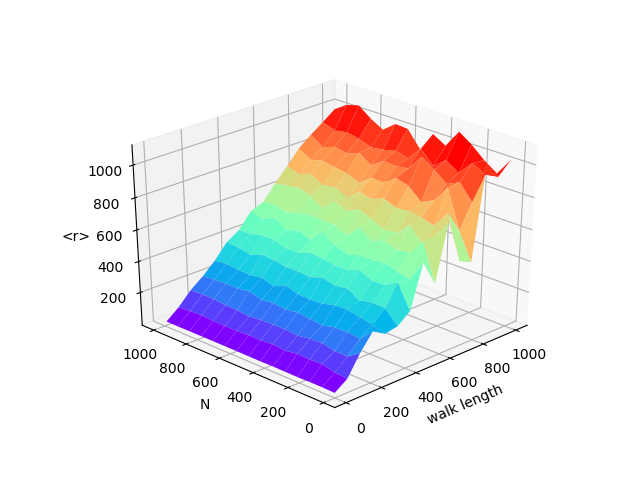
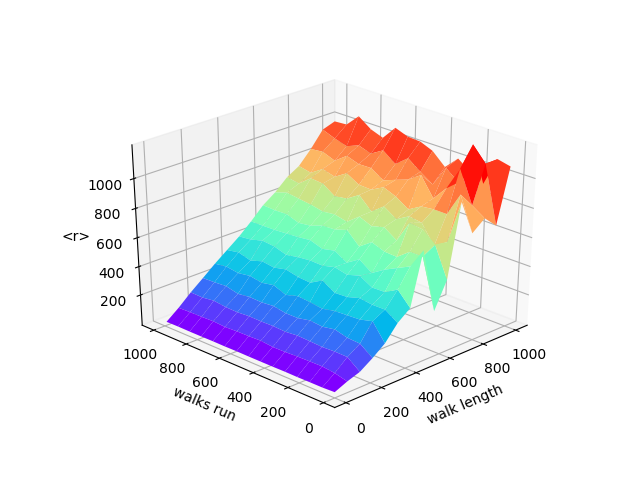
Update 3_8

diff --git a/tasks/task3/3_8.py b/tasks/task3/3_8.py
@@ -61,7 +61,7 @@ ax = plt.axes(projection='3d')
 ax.plot_surface(X, Y, Z,
                 cmap='rainbow', edgecolor='none')
 ax.set_xlabel('walk length')
-ax.set_ylabel('N')
-ax.set_zlabel('<r>')
+ax.set_ylabel('walks run per length')
+ax.set_zlabel('$<R^2>$')
 ax.view_init(30, 135 + 90)
 plt.savefig("./plots/3_8/walklen.png")
